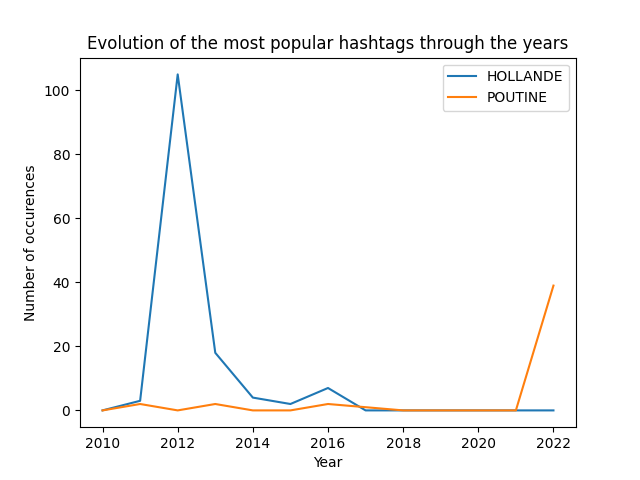
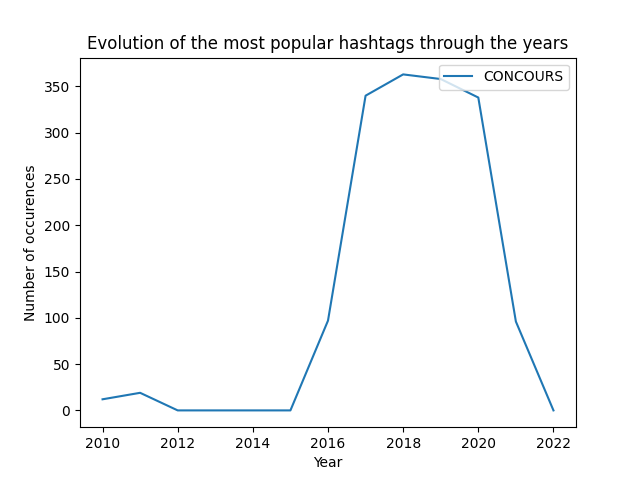
Update ReadMe and fixe empty plot

diff --git a/scripts/tweets/plots_tweets.py b/scripts/tweets/plots_tweets.py
@@ -160,8 +160,9 @@ def plot(NUMBER_TWEETS_TO_KEEP=NUMBER_TWEETS_TO_KEEP,
     # --- Plot ----------------------------------------------------------------------------------------
 
     if(df.empty):
-        print("No tweets found")
-        exit()
+        plt.figure()
+        plt.title("No data to plot")
+        return plt
 
     # Plot the evolution of the most popular hashtags through the years
     df.plot()

diff --git a/README.md b/README.md
@@ -46,8 +46,8 @@ The first step was to find a source for Twitter data. For that, we use all the t
 
 There are a few drawbacks to this method of using tweets of `TopHashtags` :
 
+- **The year 2014 is almost empty**
 - We don't have the number of occurences of each hashtags
-- The year 2014 is almost empty
 
 Despite these drawbacks, we decided to use this method because it was the easiest way to get the data.
 
@@ -131,4 +131,6 @@ Except this, the project has not been really limited by anything else.
 
 According to the previous part, the main improvement would be to use another source of data. The Twitter API is probably the best solution if it is possible to pay for it. Otherwise, we can try to find another Twitter user that tweets the most used hashtags every day, or an already existing dataset.
 
-Another possible improvement would be to merge the two scripts [process_tweets_data](scripts/tweets/process_tweets_data.py) and [plots_tweets.py](scripts/tweets/plots_tweets.py) to have only one script that does everything. This way, the image representation and the plot would present the same data.
+Another possible improvement would be to merge the two scripts [process_tweets_data.py](scripts/tweets/process_tweets_data.py) and [plots_tweets.py](scripts/tweets/plots_tweets.py) to have only one script that does everything. This way, the image representation and the plot would present the same data.
+
+And to finnish with the improvements, the UI could be a bit improved. For example, we could add a button to download the CSV file with the data of the plot or add more descriptions of each inputs.
